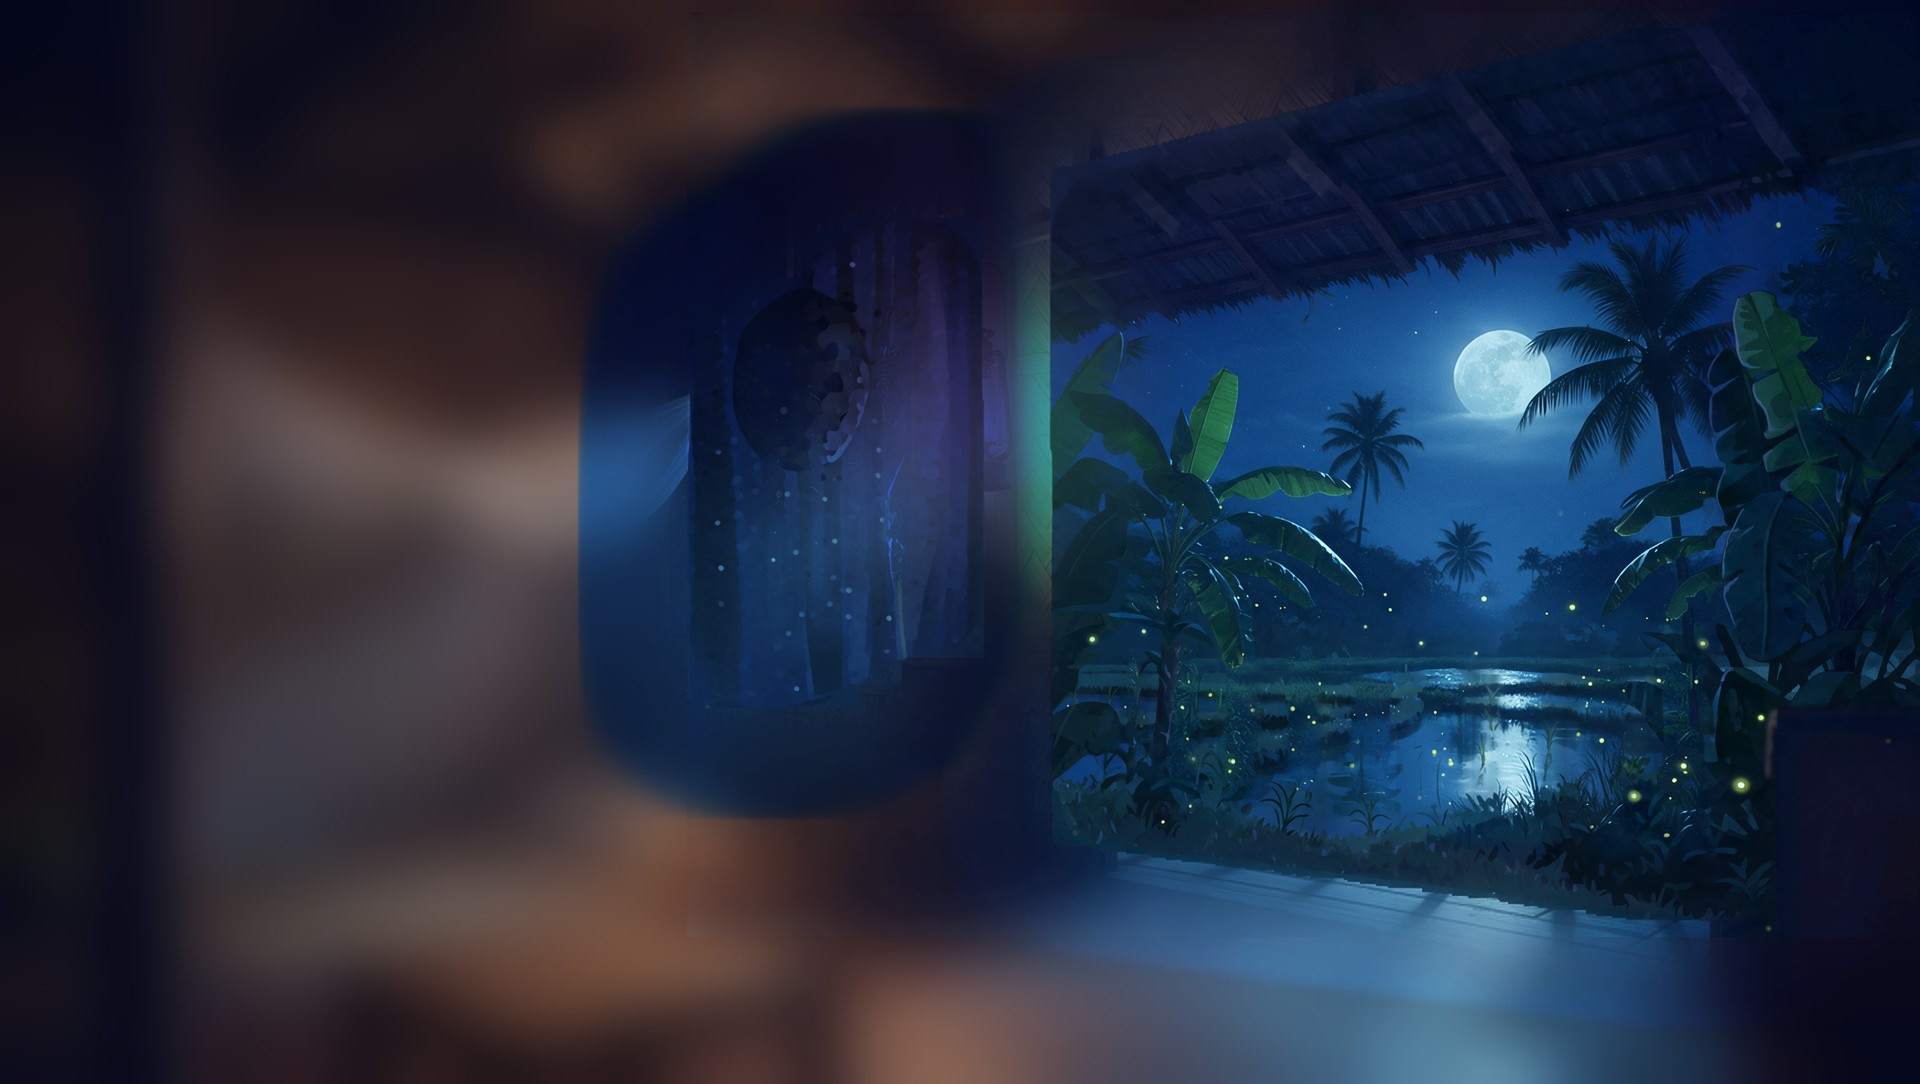
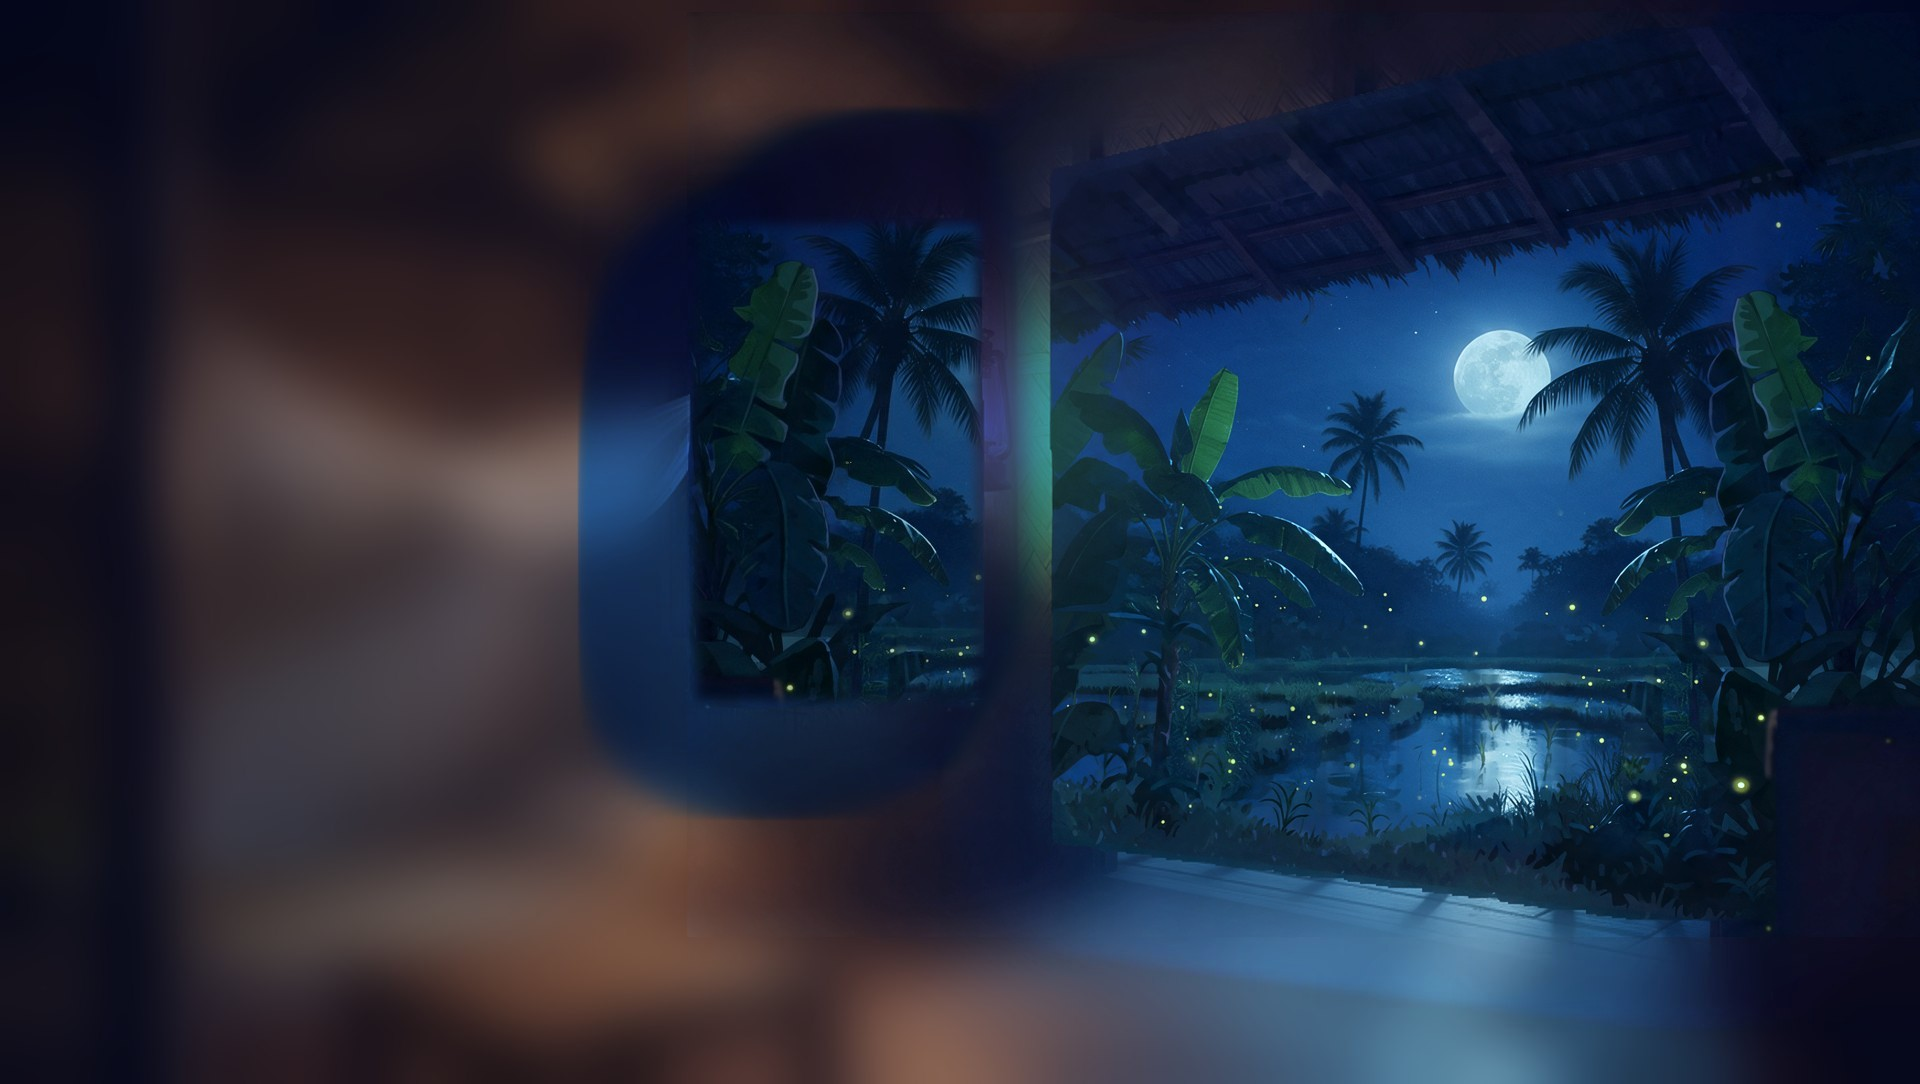
Stilt house: clean view through the side window
The outside layer behind the barred side window was a smear of interior
remnants and lamp glow; it now shows dark palms and banana leaves taken
from the same night view. Asset v=9.

Claude-Session: https://claude.ai/code/session_01WmePPEVtycNtDwciTC66yT

Changed region(s): [[0.3438, 0.1827, 0.5312, 0.6697]]

diff --git a/public/index.html b/public/index.html
@@ -449,7 +449,7 @@ function framesFor(key){if(!LABFR||!LABFR[key])return null;if(FRM[key])return FR
     return Promise.all([...[...Array(j.n).keys()].flatMap(i=>[loadTex(dir+'/on_'+id(i)+'.jpg'),loadTex(dir+'/off_'+id(i)+'.jpg')]),
       ...[...Array(j.n-1).keys()].flatMap(i=>[loadTex(dir+'/fab_'+id(i)+'.png'),loadTex(dir+'/fba_'+id(i)+'.png')])])}).then(a=>{const m=2*F.n,A=a.slice(0,m),B=a.slice(m);
       F.on=A.filter((_,i)=>i%2==0);F.off=A.filter((_,i)=>i%2==1);F.fab=B.filter((_,i)=>i%2==0);F.fba=B.filter((_,i)=>i%2==1);F.ready=true}).catch(()=>{});return F}
-function texFor(key){if(!cache.has(key))cache.set(key,Promise.all(FILES.map(n=>loadTex(((LAB&&LAB[key])||key)+'/'+n+(/^(out_|mask)/.test(n)?'?v=8':'')))).then(a=>Object.fromEntries(FILES.map((n,i)=>[n.split('.')[0],a[i]]))));return cache.get(key)}
+function texFor(key){if(!cache.has(key))cache.set(key,Promise.all(FILES.map(n=>loadTex(((LAB&&LAB[key])||key)+'/'+n+(/^(out_|mask)/.test(n)?'?v=9':'')))).then(a=>Object.fromEntries(FILES.map((n,i)=>[n.split('.')[0],a[i]]))));return cache.get(key)}
 function evict(keep){for(const [k,p] of cache)if(!keep.includes(k)){cache.delete(k);p.then(T=>Object.values(T).forEach(t=>t.dispose()))}}
 const tvCan=document.createElement('canvas');tvCan.width=128;tvCan.height=96;const tvCtx=tvCan.getContext('2d');
 const tTV=new THREE.CanvasTexture(tvCan);tTV.minFilter=THREE.LinearFilter;tTV.generateMipmaps=false;

diff --git a/public/lab.html b/public/lab.html
@@ -450,7 +450,7 @@ function framesFor(key){if(!LABFR||!LABFR[key])return null;if(FRM[key])return FR
     return Promise.all([...[...Array(j.n).keys()].flatMap(i=>[loadTex(dir+'/on_'+id(i)+'.jpg'),loadTex(dir+'/off_'+id(i)+'.jpg')]),
       ...[...Array(j.n-1).keys()].flatMap(i=>[loadTex(dir+'/fab_'+id(i)+'.png'),loadTex(dir+'/fba_'+id(i)+'.png')])])}).then(a=>{const m=2*F.n,A=a.slice(0,m),B=a.slice(m);
       F.on=A.filter((_,i)=>i%2==0);F.off=A.filter((_,i)=>i%2==1);F.fab=B.filter((_,i)=>i%2==0);F.fba=B.filter((_,i)=>i%2==1);F.ready=true}).catch(()=>{});return F}
-function texFor(key){if(!cache.has(key))cache.set(key,Promise.all(FILES.map(n=>loadTex(((LAB&&LAB[key])||key)+'/'+n+(/^(out_|mask)/.test(n)?'?v=8':'')))).then(a=>Object.fromEntries(FILES.map((n,i)=>[n.split('.')[0],a[i]]))));return cache.get(key)}
+function texFor(key){if(!cache.has(key))cache.set(key,Promise.all(FILES.map(n=>loadTex(((LAB&&LAB[key])||key)+'/'+n+(/^(out_|mask)/.test(n)?'?v=9':'')))).then(a=>Object.fromEntries(FILES.map((n,i)=>[n.split('.')[0],a[i]]))));return cache.get(key)}
 function evict(keep){for(const [k,p] of cache)if(!keep.includes(k)){cache.delete(k);p.then(T=>Object.values(T).forEach(t=>t.dispose()))}}
 const tvCan=document.createElement('canvas');tvCan.width=128;tvCan.height=96;const tvCtx=tvCan.getContext('2d');
 const tTV=new THREE.CanvasTexture(tvCan);tTV.minFilter=THREE.LinearFilter;tTV.generateMipmaps=false;
